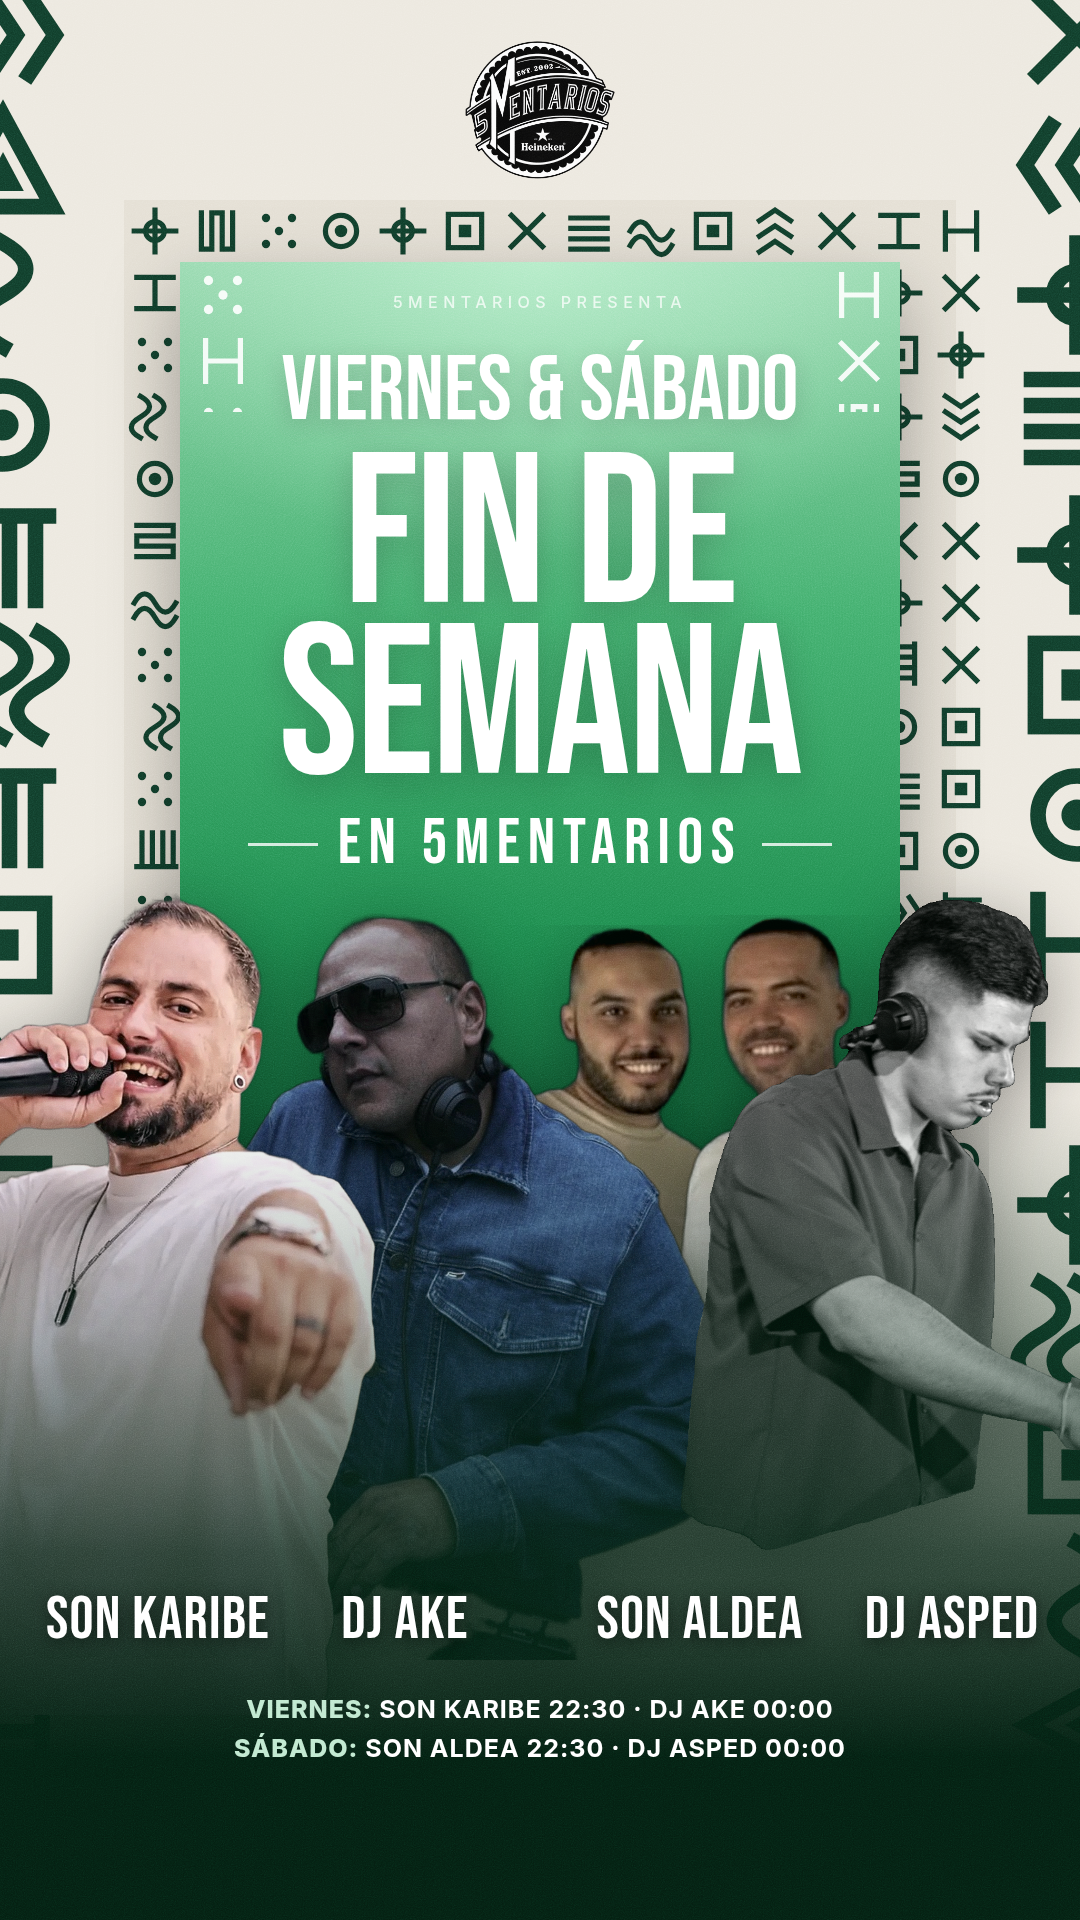
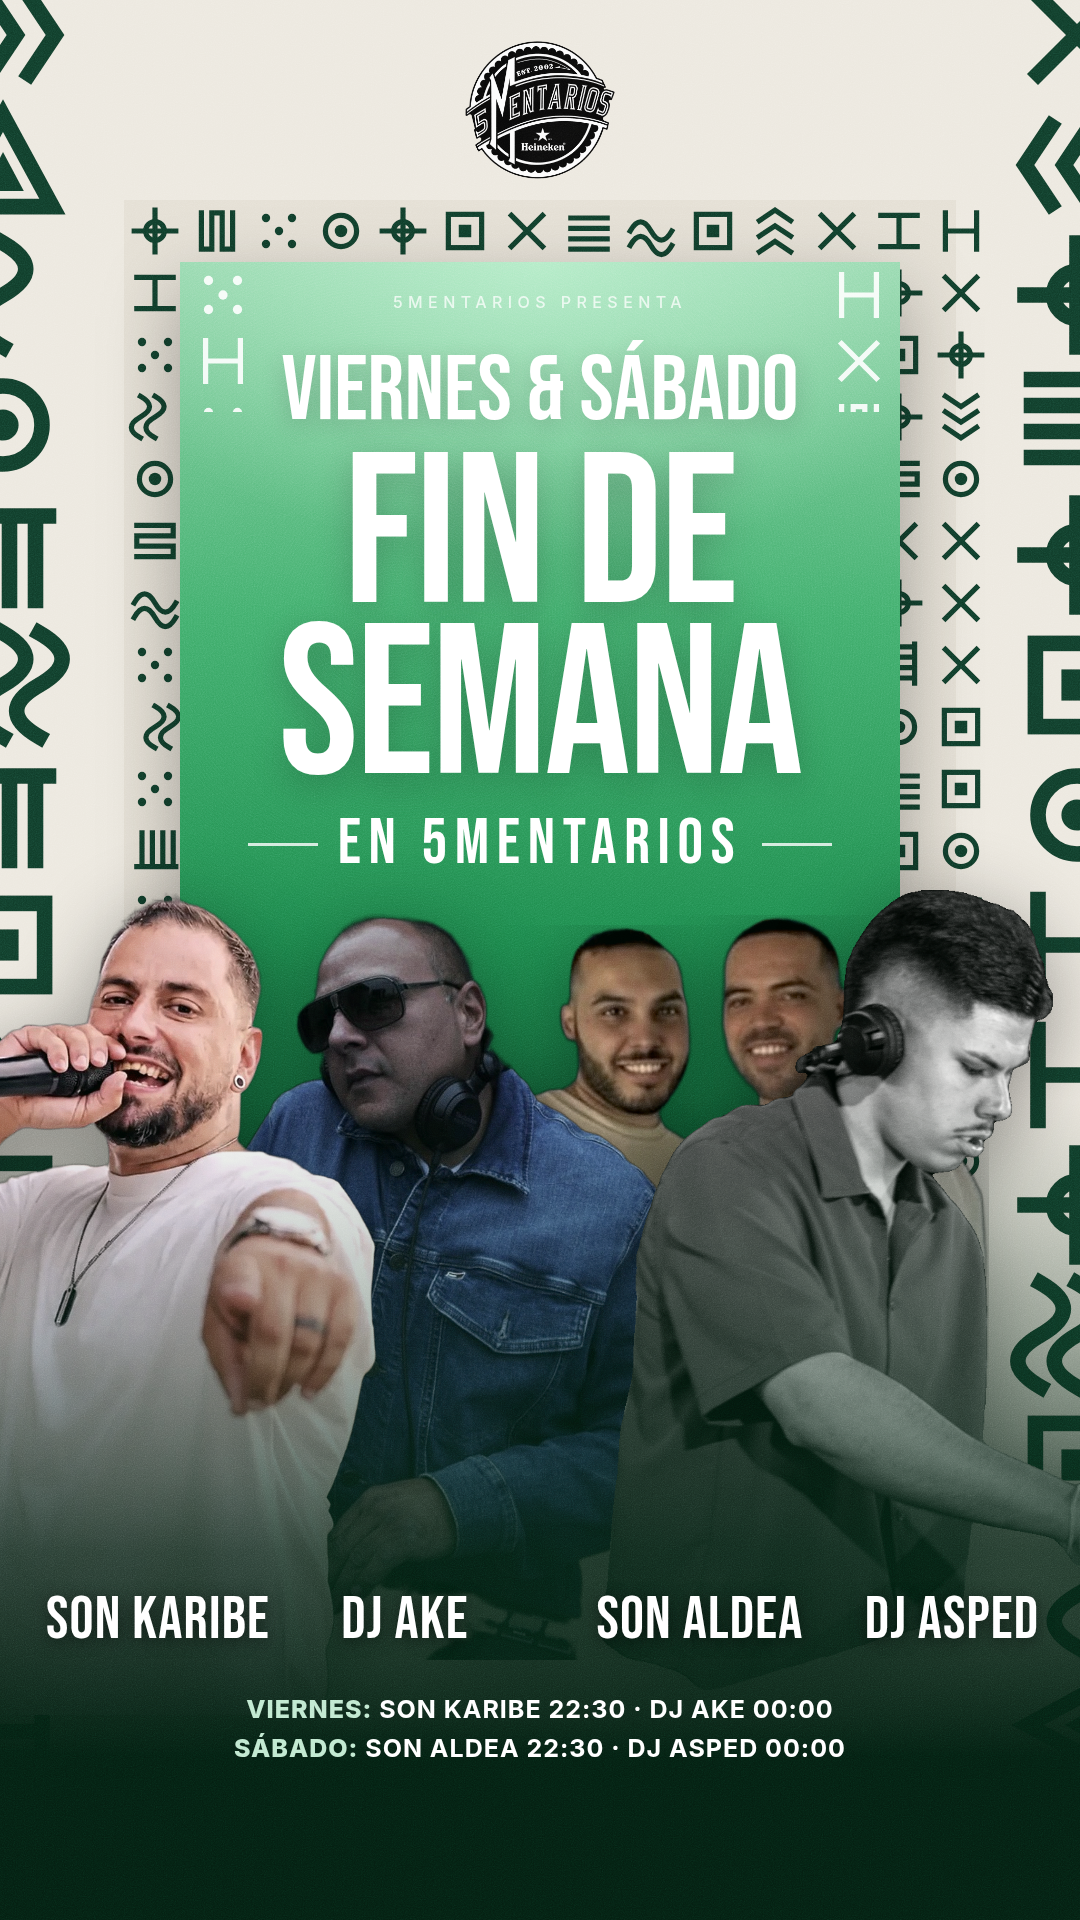
Enlarge DJ ASPED so the booth crop sits inside the dark fade
Claude-Session: https://claude.ai/code/session_01RJzBzF85Mf8EXnmYDeiEGb

Changed region(s): [[0.5806, 0.4375, 1.0, 0.8438], [0.7028, 0.8125, 0.7639, 0.8438], [0.5806, 0.8125, 0.6417, 0.8438]]

diff --git a/posts/2026-09-25-musica-en-directo/5mentarios-vibe.html b/posts/2026-09-25-musica-en-directo/5mentarios-vibe.html
@@ -51,6 +51,7 @@
   /* artistas */
   .figs img { position: absolute; }
   .figs img.back { -webkit-mask-image: linear-gradient(180deg, #000 55%, transparent 90%); mask-image: linear-gradient(180deg, #000 55%, transparent 90%); }
+  .figs img.softb { -webkit-mask-image: linear-gradient(180deg, #000 52%, transparent 88%); mask-image: linear-gradient(180deg, #000 52%, transparent 88%); }
   .figs img { filter: drop-shadow(0 20px 40px rgba(0,0,0,.45)); }
   .fade { position: absolute; left: 0; right: 0; bottom: 0; height: 820px; z-index: 20;
     background: linear-gradient(180deg, rgba(6,40,22,0) 0%, rgba(6,40,22,.35) 28%, rgba(5,34,19,.82) 55%, #041d10 80%); }
@@ -83,7 +84,7 @@
     <img class="back" src="col/son-aldea-2.png" style="z-index: 4;" data-h="560" data-cx="622" data-top="925" alt="Son Aldea">
     <img class="back" src="col/son-aldea-1.png" style="z-index: 4;" data-h="560" data-cx="780" data-top="915" alt="Son Aldea">
     <img src="col/dj-ake.png"     style="z-index: 5;" data-h="750" data-cx="395" data-top="910" alt="DJ AKE">
-    <img src="col/dj-asped.png"   style="z-index: 6;" data-h="650" data-cx="960" data-top="900" alt="DJ ASPED">
+    <img src="col/dj-asped.png"   style="z-index: 6;" data-h="800" data-cx="945" data-top="890" alt="DJ ASPED">
     <img src="col/son-karibe.png" style="z-index: 7;" data-h="825" data-cx="172" data-top="890" alt="Son Karibe">
   </div>
   <div class="fade"></div>
